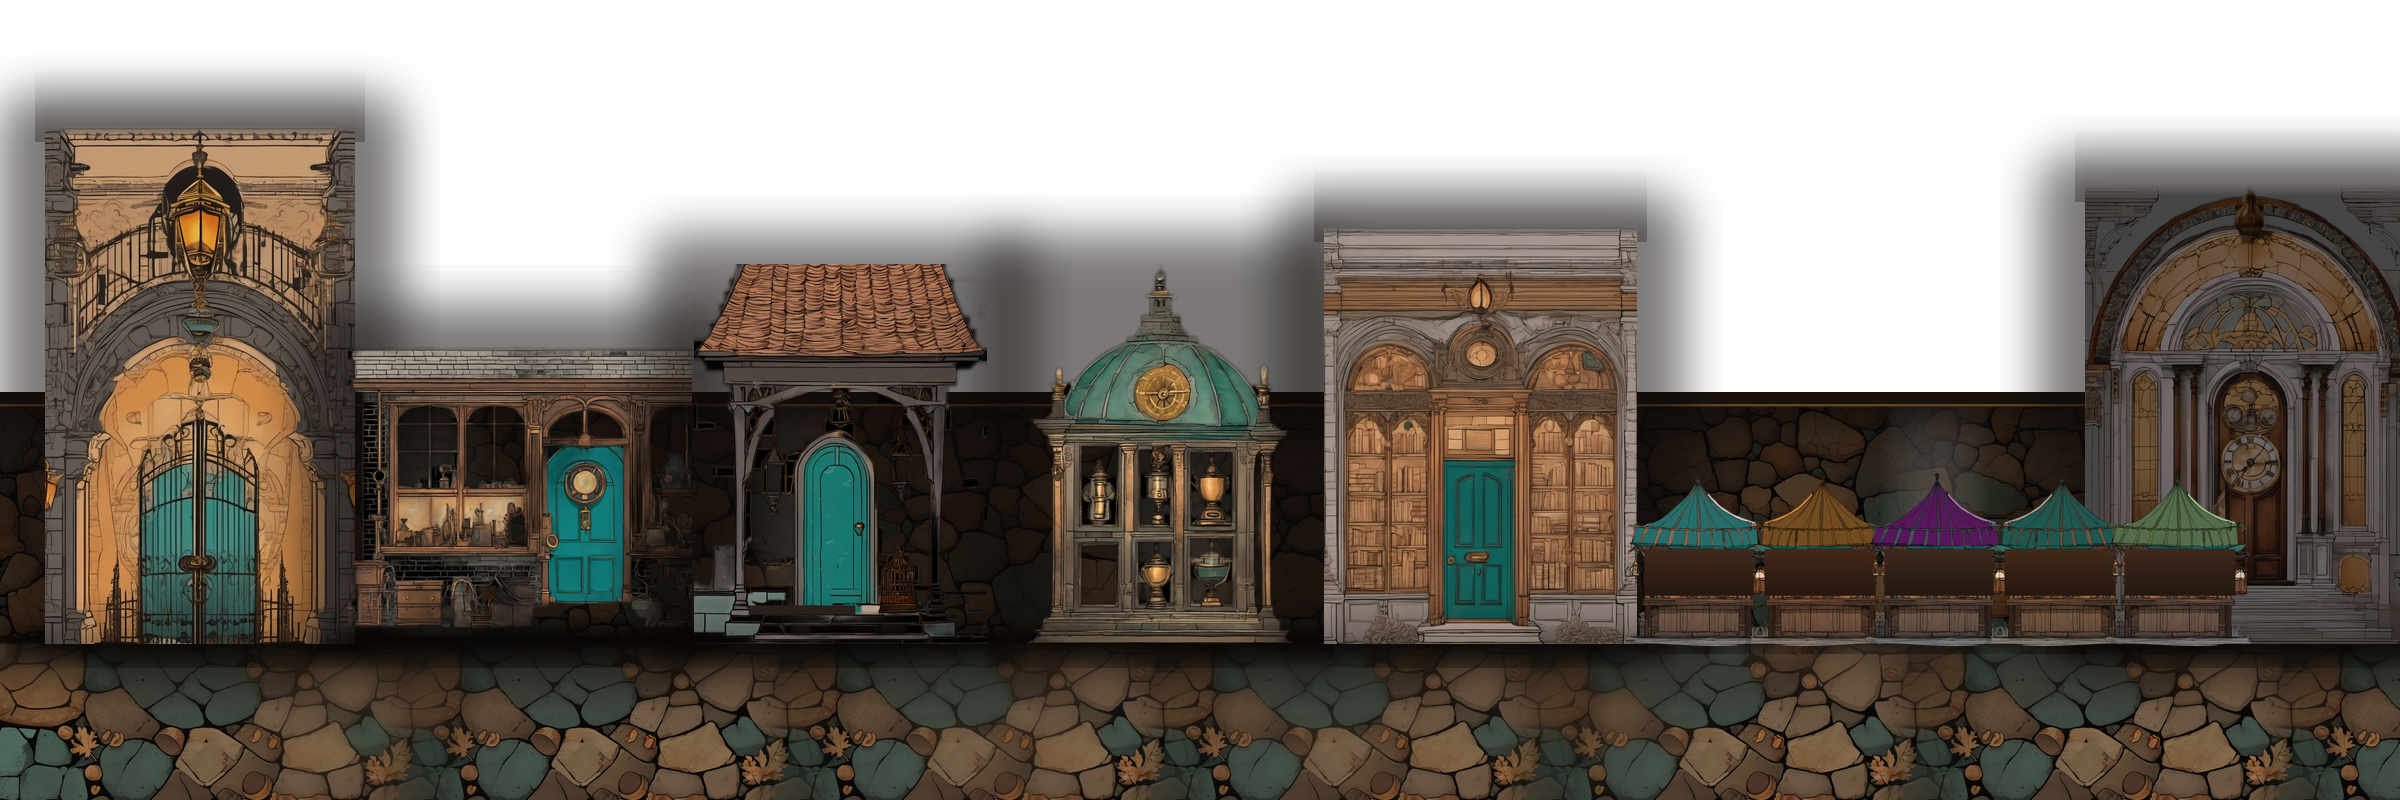
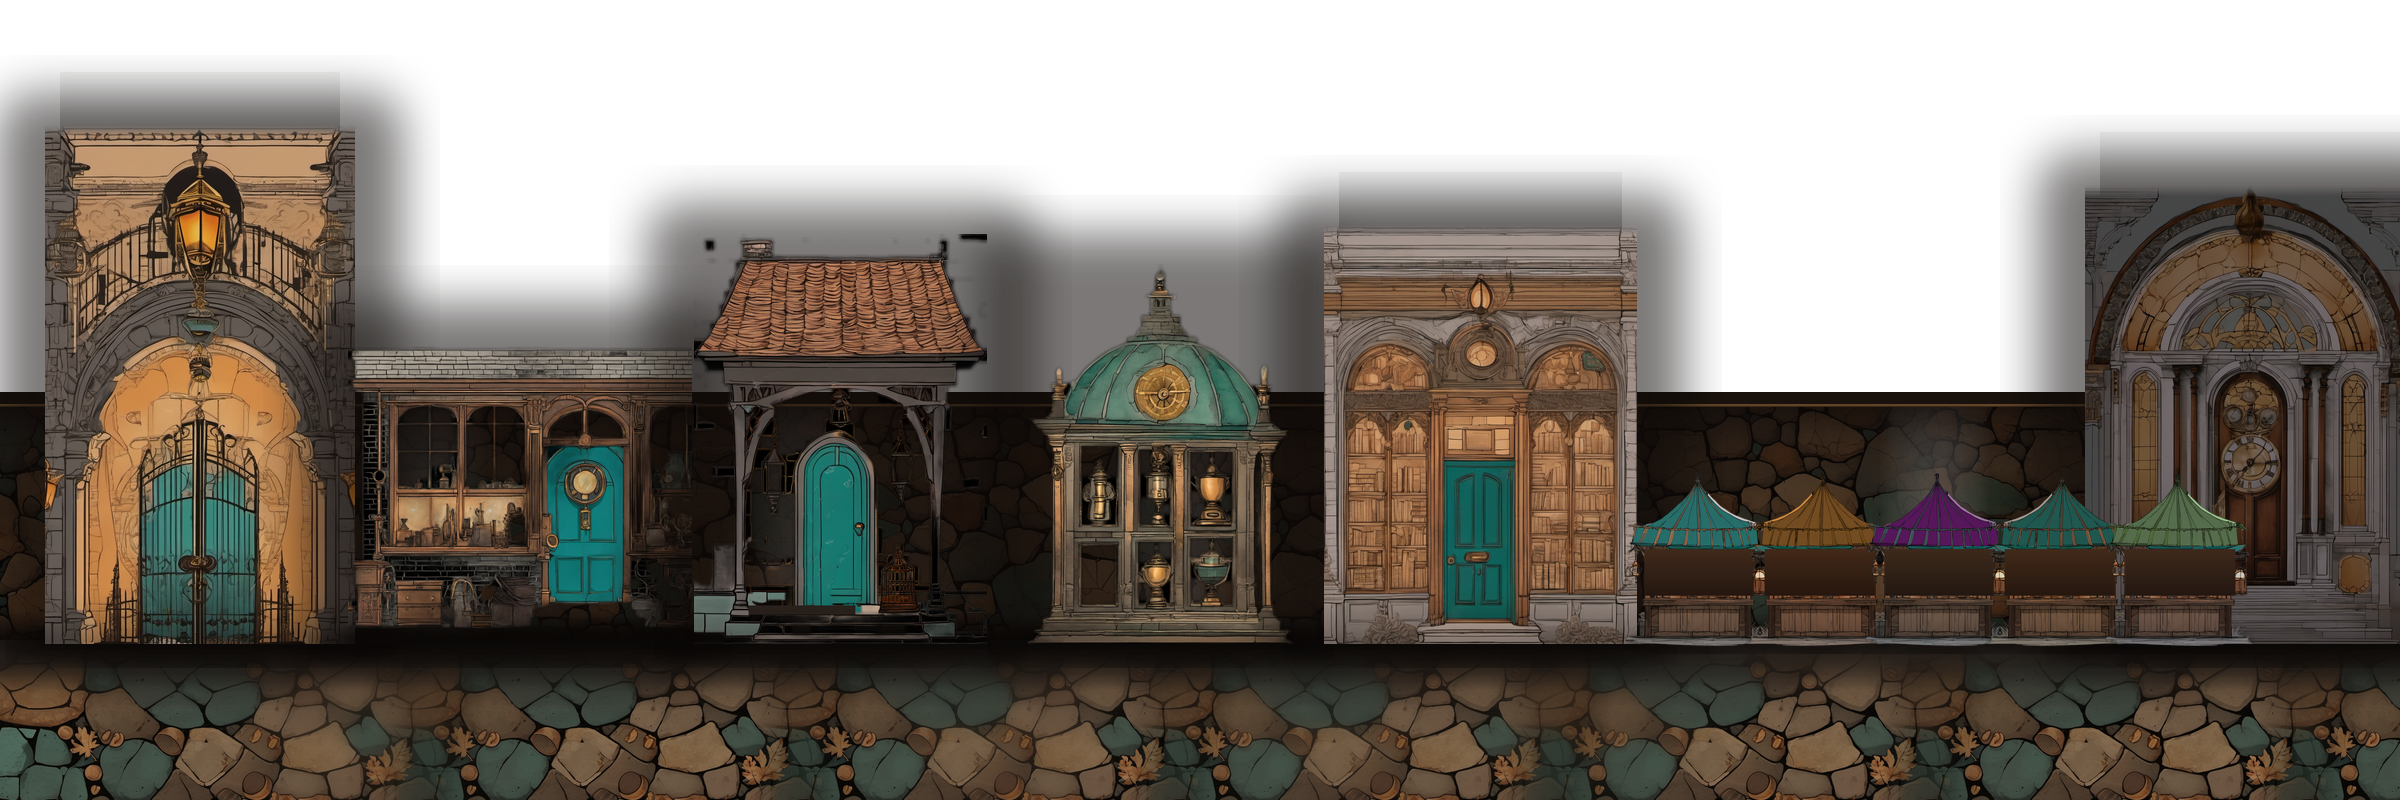
B10a.3 bellfoot art round 4: soft ground band, level-matched sky, ivy edges feathered, chimney points on painted chimneys, manifest sizes

diff --git a/src/art/manifest.ts b/src/art/manifest.ts
@@ -107,9 +107,9 @@ export const MANIFEST: ManifestEntry[] = [
     id: 'bellfoot',
     act: 0,
     files: [
-      { path: 'art/bellfoot/sky.webp', bytes: 167554 },
-      { path: 'art/bellfoot/street.webp', bytes: 259476 },
-      { path: 'art/bellfoot/foreground.webp', bytes: 56576 },
+      { path: 'art/bellfoot/sky.webp', bytes: 177110 },
+      { path: 'art/bellfoot/street.webp', bytes: 262358 },
+      { path: 'art/bellfoot/foreground.webp', bytes: 52956 },
     ],
     source: 'art/bellfoot',
   },

diff --git a/src/art/scenes/bellfoot.ts b/src/art/scenes/bellfoot.ts
@@ -35,8 +35,8 @@ export const BELLFOOT: SceneDef | null = {
   ambience: {
     lamps: [360, 1000, 1320, 1590].map((x) => [x, 480] as [number, number]),
     chimneys: [
-      [600, 300],
-      [1560, 250],
+      [757, 243],
+      [1620, 214],
     ],
   },
 };

diff --git a/art/bellfoot/build.py b/art/bellfoot/build.py
@@ -43,6 +43,16 @@ def sky():
     b = b.resize((round(b.width * k), round(b.height * k)), Image.LANCZOS)
     c = rgba(CAND / "sky2_seed3.png")
     c = c.resize((round(c.width * k), round(c.height * k)), Image.LANCZOS)
+    # match the three pictures' levels (mean color of their visible upper part) so no block reads as another tone
+    from PIL import ImageStat
+    ref = ImageStat.Stat(a.convert("RGB").crop((0, 0, a.width, 330))).mean
+
+    def match(im):
+        m = ImageStat.Stat(im.convert("RGB").crop((0, 0, im.width, 330))).mean
+        gains = [max(0.85, min(1.18, ref[i] / m[i])) for i in range(3)]
+        return tint(im, gains, 1.0)
+
+    b, c = match(b), match(c)
     out = Image.new("RGBA", (1800, 800), (24, 16, 12, 255))
     x = 0
     for i, im in enumerate((a, b, c)):
@@ -171,13 +181,23 @@ def street():
     for lx in (360, 1000, 1320, 1590):
         nd.ellipse([lx - 110, 0, lx + 110, 150], fill=130)
     cob = Image.composite(soft, cob, near.filter(ImageFilter.GaussianBlur(30)))
-    img.paste(cob, (0, GROUND))
-    d.rectangle([0, GROUND - 4, W, GROUND + 2], fill=(20, 14, 10, 255))
+    # the cobbles fade in from the dark wall foot over 50 px (no straight ground line)
+    fade_in = Image.new("L", cob.size, 255)
+    fd = ImageDraw.Draw(fade_in)
+    for y in range(50):
+        fd.line([(0, y), (W, y)], fill=int(255 * (y / 50) ** 1.3))
+    cob.putalpha(ImageChops.multiply(cob.getchannel("A"), fade_in))
+    foot = Image.new("RGBA", (W, 90), (0, 0, 0, 0))
+    fo = ImageDraw.Draw(foot)
+    for y in range(90):
+        fo.line([(0, y), (W, y)], fill=(20, 14, 10, int(235 * min(1.0, y / 30))))
+    img.alpha_composite(foot, (0, GROUND - 30))
+    img.alpha_composite(cob, (0, GROUND))
     # places, back to front by x: (name, anchor x, height, crop box or None, mirror)
     places = [
         ("gate", 200, 520, None),
         ("workshop", 520, 310, (60, 0, 920, 775)),
-        ("sprocket", 840, 380, "sprocket"),
+        ("sprocket", 840, 410, "sprocket"),
         ("trophies", 1160, 380, None),
         ("archivist", 1480, 420, None),
         ("clocktower", 2250, 460, None),
@@ -186,7 +206,7 @@ def street():
         im = rgba(CUTS / f"{name}.png")
         if crop == "sprocket":
             im = no_dog(im)
-            im = im.crop((int(im.width * 0.08), int(im.height * 0.12), int(im.width * 0.92), im.height))
+            im = im.crop((int(im.width * 0.08), int(im.height * 0.05), int(im.width * 0.92), im.height))
         elif crop:
             im = im.crop(crop)
         a = im.getchannel("A")
@@ -209,11 +229,11 @@ def street():
             for y in range(12):
                 rd.line([(0, y), (im.width, y)], fill=int(255 * (y / 12) ** 1.4))
             im.putalpha(ImageChops.multiply(im.getchannel("A"), ramp))
-            glow = Image.new("RGBA", (im.width + 20, 70), (0, 0, 0, 0))
+            glow = Image.new("RGBA", (im.width - 30, 70), (0, 0, 0, 0))
             gd = ImageDraw.Draw(glow)
             for y in range(70):
                 gd.line([(0, y), (glow.width, y)], fill=(12, 8, 7, int(95 * (y / 69) ** 1.6)))
-            glow = glow.filter(ImageFilter.GaussianBlur(18))
+            glow = glow.filter(ImageFilter.GaussianBlur(26))
             img.alpha_composite(glow, (x - glow.width // 2, GROUND + 4 - im.height - 52))
         # a darker band on the wall behind the front, so it sits in the street instead of on it
         bw, bh = im.width + 90, im.height + 50
@@ -249,11 +269,12 @@ def street():
         img.alpha_composite(sh.filter(ImageFilter.GaussianBlur(5)), (x - s.width // 2, GROUND - 10))
         img.alpha_composite(s, (x - s.width // 2, GROUND + 6 - s.height))
     # the walk lane: the foot of every front dims a little (y 590 to the ground line) so walkers stand out
-    dim = Image.new("RGBA", (W, 60), (0, 0, 0, 0))
+    dim = Image.new("RGBA", (W, 110), (0, 0, 0, 0))
     dd = ImageDraw.Draw(dim)
-    for y in range(60):
-        dd.line([(0, y), (W, y)], fill=(12, 8, 6, int(85 * (y / 59) ** 1.5)))
-    dim.putalpha(ImageChops.multiply(dim.getchannel("A"), img.crop((0, 585, W, 645)).getchannel("A")))
+    for y in range(110):
+        k = (y / 55) ** 1.5 if y < 55 else (1 - (y - 55) / 55) ** 1.2
+        dd.line([(0, y), (W, y)], fill=(12, 8, 6, int(85 * k)))
+    dim.putalpha(ImageChops.multiply(dim.getchannel("A"), img.crop((0, 585, W, 695)).getchannel("A")))
     img.alpha_composite(dim, (0, 585))
     return img
 
@@ -266,6 +287,20 @@ def foreground():
     lamp = lamp.crop((int(lamp.width * 0.36), 0, int(lamp.width * 0.66), lamp.height))
     bbox = lamp.getchannel("A").point(lambda v: 255 if v > 24 else 0).getbbox()
     lamp = fit_h(lamp.crop(bbox), 330)
+    # the ivy planter and fence ends fade out at their sides and foot (no rectangle)
+    m = Image.new("L", lamp.size, 255)
+    md = ImageDraw.Draw(m)
+    sidew, topy = 34, int(lamp.height * 0.45)
+    for i in range(sidew):
+        v = int(255 * (i / sidew) ** 1.5)
+        md.line([(i, topy), (i, lamp.height)], fill=v)
+        md.line([(lamp.width - 1 - i, topy), (lamp.width - 1 - i, lamp.height)], fill=v)
+    for i in range(22):
+        md.line([(0, lamp.height - 1 - i), (lamp.width, lamp.height - 1 - i)], fill=min(255, int(255 * (i / 22))))
+    # keep the pole column whole
+    ImageDraw.Draw(m).rectangle([lamp.width // 2 - 12, 0, lamp.width // 2 + 12, lamp.height], fill=255)
+    m = ImageChops.darker(m, Image.new("L", lamp.size, 255)).filter(ImageFilter.GaussianBlur(2))
+    lamp.putalpha(ImageChops.multiply(lamp.getchannel("A"), m))
     for x in (360, 1000, 1320, 1590):
         gs = Image.new("RGBA", (lamp.width + 90, 40), (0, 0, 0, 0))
         ImageDraw.Draw(gs).ellipse([0, 8, gs.width - 1, 34], fill=(6, 4, 3, 150))
